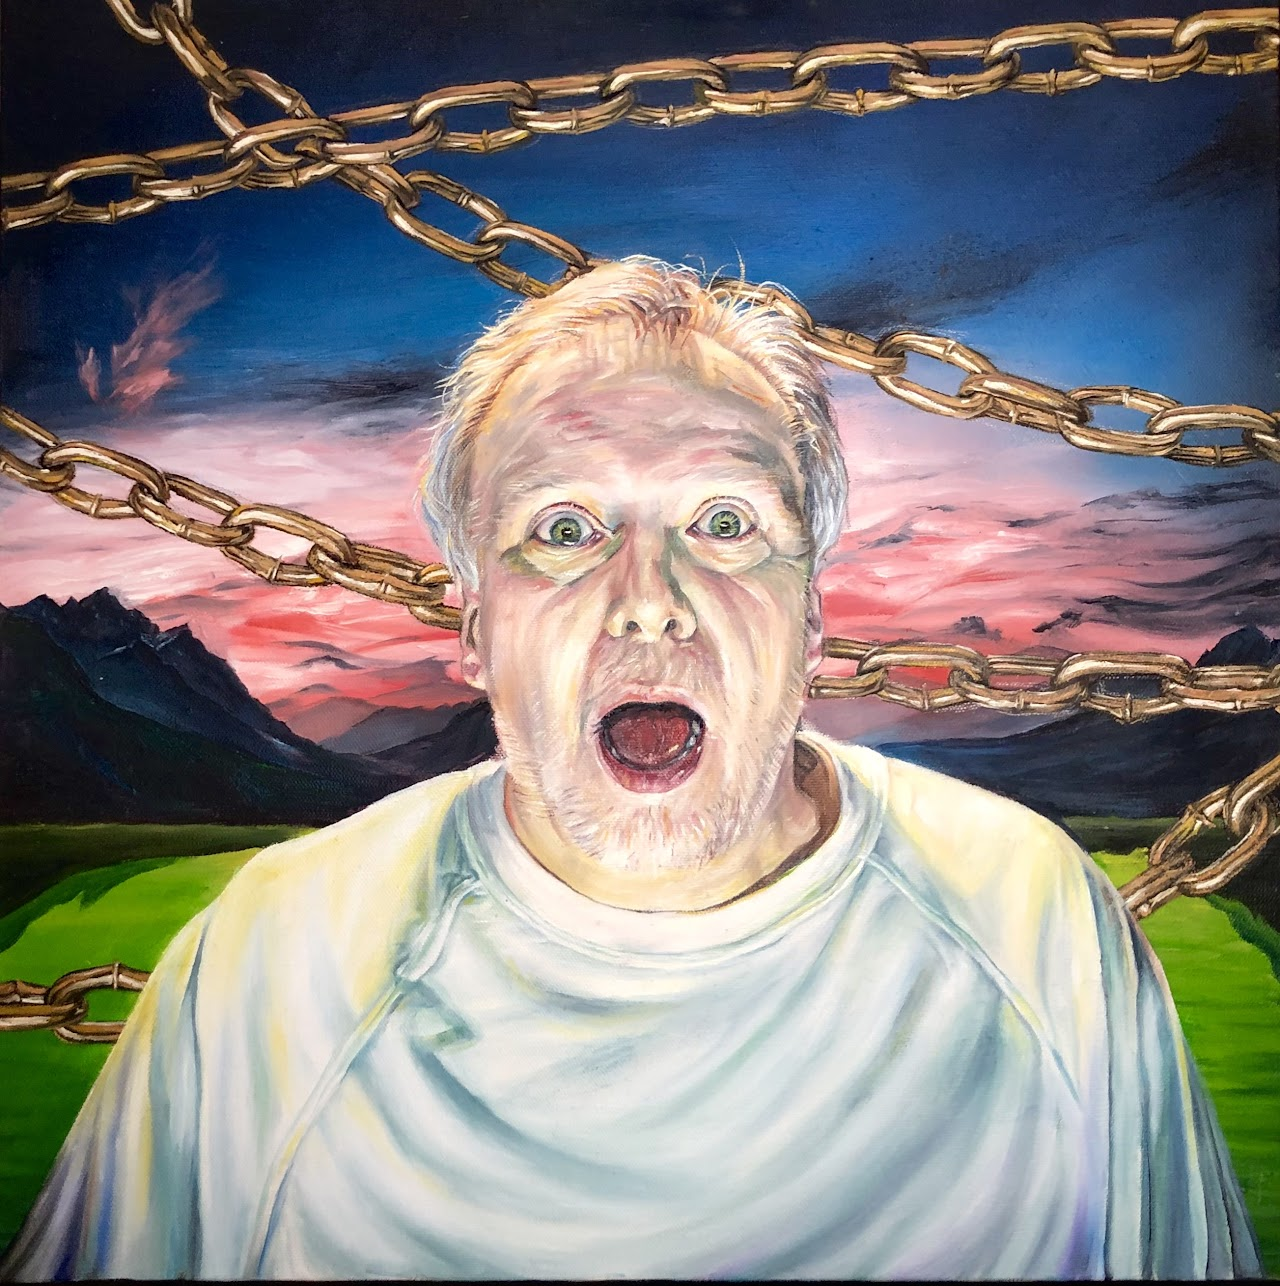
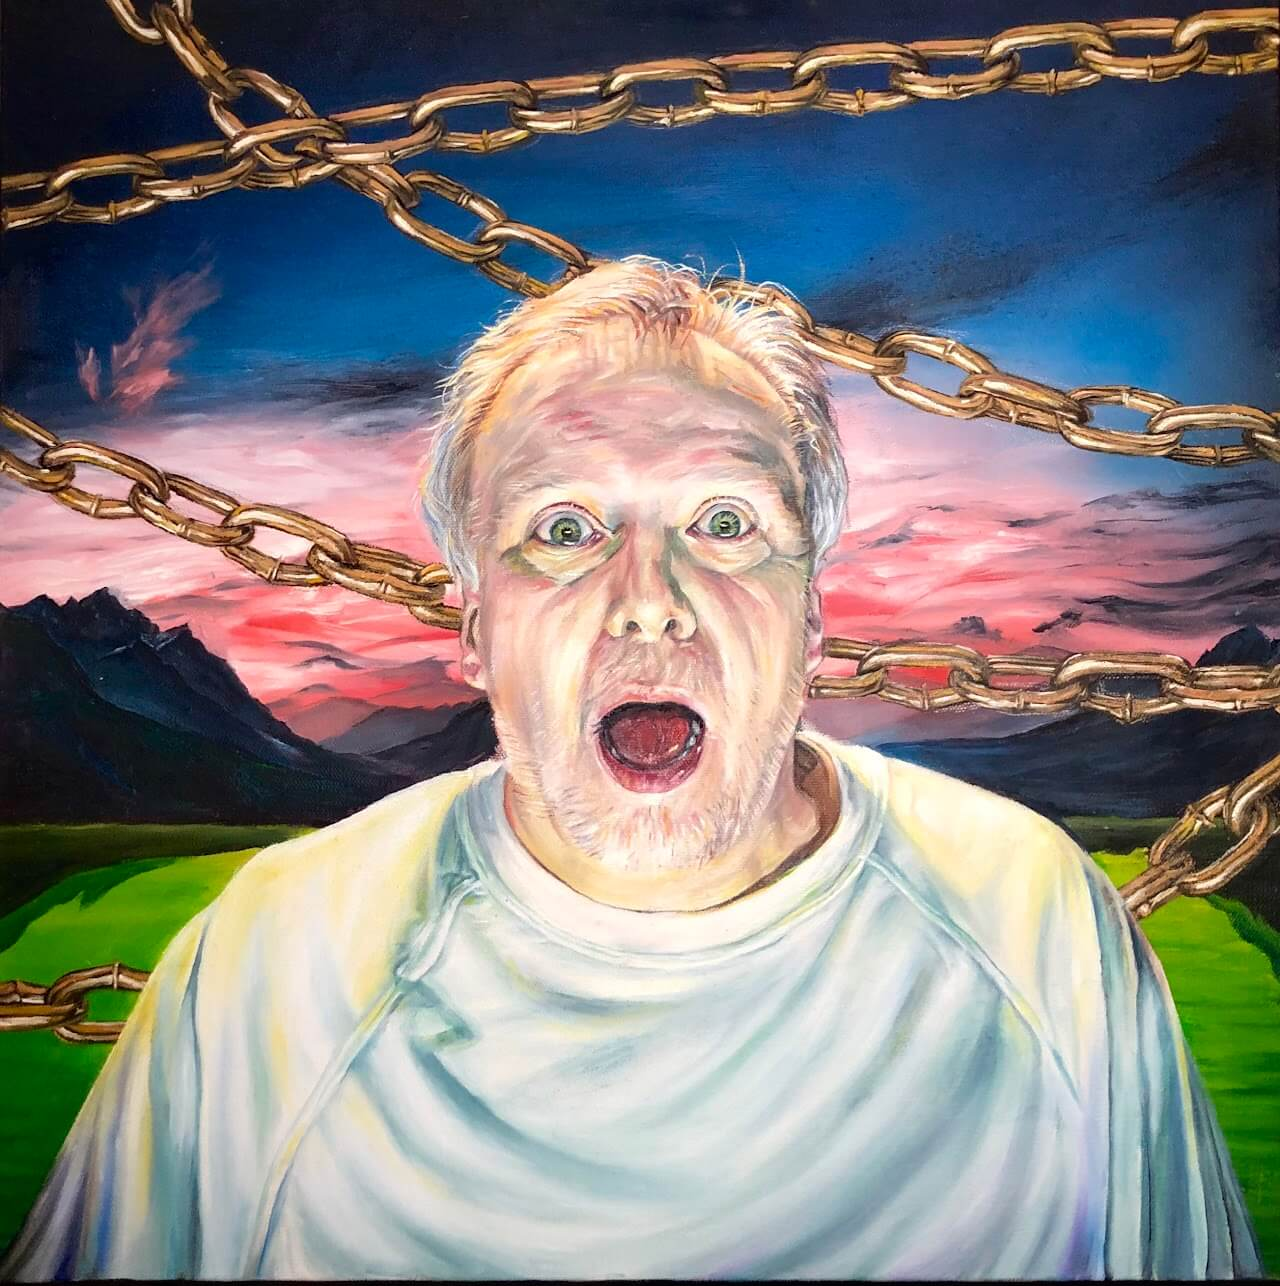
image optimization

diff --git a/index.html b/index.html
@@ -4,9 +4,9 @@
     <link rel="icon" href="ej..svg">
     <link rel="stylesheet" href="htmlpractice.css">
     <link rel="preconnect" href="https://fonts.googleapis.com">
-<link rel="preconnect" href="https://fonts.gstatic.com" crossorigin>
-<link href="https://fonts.googleapis.com/css2?family=Poppins:ital,wght@0,100;0,200;0,300;0,400;0,500;0,600;0,700;0,800;0,900;1,100;1,200;1,300;1,400;1,500;1,600;1,700;1,800;1,900&display=swap" rel="stylesheet">
-    
+    <link rel="preconnect" href="https://fonts.gstatic.com" crossorigin>
+    <link href="https://fonts.googleapis.com/css2?family=Poppins:ital,wght@0,100;0,200;0,300;0,400;0,500;0,600;0,700;0,800;0,900;1,100;1,200;1,300;1,400;1,500;1,600;1,700;1,800;1,900&display=swap" rel="stylesheet">
+    <script src="https://code.jquery.com/jquery-3.6.0.min.js"></script>
 
 </head>
 <meta name="viewport" content="width=device-width, initial-scale=1">
@@ -57,7 +57,7 @@
                     <p>emily's elements</p>
                 </div>
 
-                <div class="elementsec"style = "grid-column:1/3; grid-row:2/3;">
+                <div class="elementsec" id = "stationary" style = "grid-column:1/3; grid-row:2/3;">
 
                     
         

diff --git a/about.html b/about.html
@@ -15,6 +15,7 @@
         <div id = "sidebar">
         </div>
         <div class = "wrapper">
+        <div id = "hehe" style = "grid-template-rows: auto;">
 
         <div class="main" >
             <div class = "smallcircle"> </div>
@@ -22,8 +23,8 @@
             
         </div>
 
-        <div class= "grid2" style= "flex-direction:row; flex-wrap:wrap; justify-content: space-between; padding-right:10vw">
-            <img id= "headshot" style= "border-radius: 50%; flex-basis:30%;"src="headshot.png" alt="headshot" >
+        <div class= "grid2" style= "flex-direction:row; flex-wrap:wrap">
+            <img id= "headshot" style= "border-radius: 50%;" src="headshot.png" alt="headshot" >
             <p > Hi! I'm Emily, a third year student at University of Toronto for studies in computational
                 cognitive science, computer science, and statistics. I have a special place in my heart for arts and crafts, 
                 whether that be painting a portrait, crocheting a top, or decorating a cake. For undergrad I've decided
@@ -38,6 +39,7 @@
             </div>
     
     </div>
+</div>
 
 </div>
     </div>

diff --git a/htmlpractice.css b/htmlpractice.css
@@ -132,6 +132,7 @@ h1{ /* ej*/
 
 .grid2 p{
     font-family: "Poppins", sans-serif;
+    flex-basis:65%;
 }
  .flex>p{
     font-family: "Poppins", sans-serif;
@@ -357,9 +358,12 @@ h5{ /* cat enthusiast */
 
 .home> a> img, .first>a>img, .home>img{
     width:100%;
-
     border-radius: 5px;
     
+}
+.grid2>img{
+
+    flex-basis:30%;
 }
 
 .caption a:hover, a:active{
@@ -516,6 +520,7 @@ h6{ /* headings for each page */
 
 
 
+
 @media only screen and (max-width: 800px) {
     .elementsec , .first{
         flex-direction: column;
@@ -626,6 +631,14 @@ h6{ /* headings for each page */
         text-align:center;
     }
 
+    .grid2 p{
+        font-size: 2.2vw;
+        flex-basis:100%;
+    }
+    .grid2 img{
+        flex-basis: 80%;
+    }
+
 
     .title>p, .arttitle>p, .num>p{
         flex-basis: auto;
@@ -642,9 +655,9 @@ h6{ /* headings for each page */
     }
 
     .grid2{
-        gap:12vw;
+        gap:8vw;
+        flex-wrap: wrap;
+        justify-content: center;
     }
-    .grid2>p{
-        flex-basis:100%;
-    }
+
 }

diff --git a/contact.html b/contact.html
@@ -25,10 +25,10 @@
 
         <div id="grid1" style= "grid-template-rows:15vw auto;">
             <div class= "title">find me on...</div>
-            <div class= "skillset" style = "grid-column: 1/2;">
+            <div id= "skillset" style = "grid-column: 1/2;">
                 <a href="https://github.com/emjennett"> github</a>
              </div>
-             <div class = "skillset"style = "grid-column: 2/3;">
+             <div id = "skillset"style = "grid-column: 2/3;">
                 <a href="mailto:emily.k.jennett@gmail.com.com">email</a> 
              </div>
 

diff --git a/myscript.js b/myscript.js
@@ -19,3 +19,11 @@ function reveal() {
   
   window.addEventListener("scroll", reveal);
 
+  $(document).ready(function() {
+    if ($(window).width() < 800) {
+        var element = $('#stationary');
+        if (element.length > 0 && element.hasClass('elementsec')) {
+            element.removeClass('elementsec').addClass('first');
+        }
+    }
+});

diff --git a/portfolio.html b/portfolio.html
@@ -30,7 +30,7 @@
             </div>
             
 
-            <div class= "first" >
+            <div class= "first">
                 <div id = "leftnum" class="num">
                     <p  >01.</p>
                  </div>
